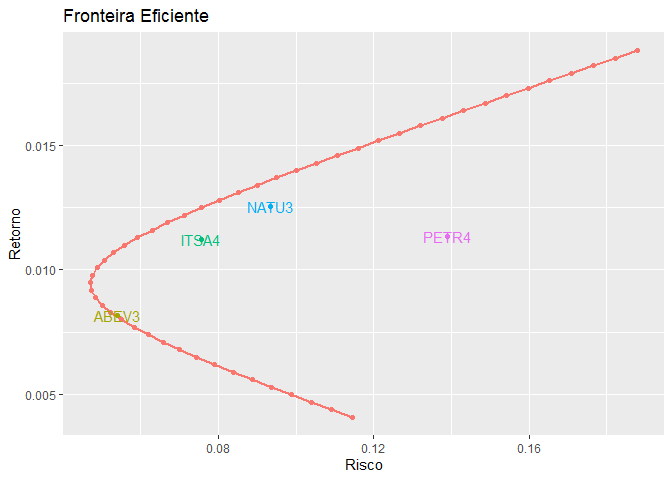
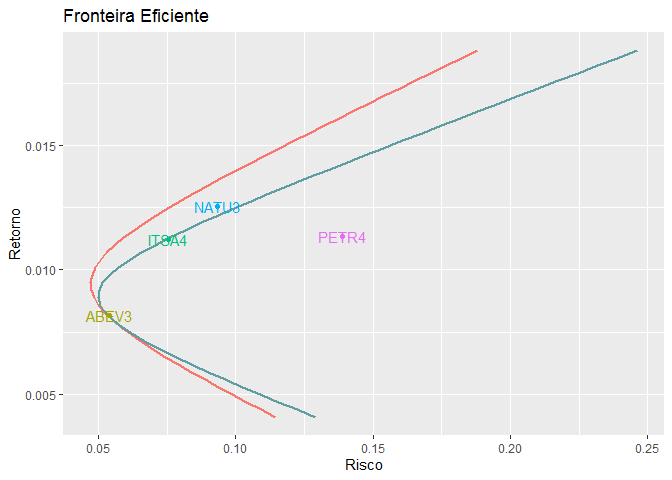
Adição de nova fronteira

diff --git a/post-blog.html b/post-blog.html
@@ -217,7 +217,7 @@ ativos &lt;- new.env()
 getSymbols(Symbols = simbolos, env = ativos, src = 'yahoo',
            from = startdate, to = enddate, auto.assign = TRUE)
 ativos &lt;- as.list(ativos)</code></pre>
-<p>Se tudo tiver corrido corretamente os dados das ações foram baixados em carregados no <em>environment</em> <code>ativos</code> que posteriormente foi transformando em uma lista. Usaremos lista frequentemente nesse exercício, elas simplicam bastante a transformação de dados ao permitir que uma operação seja realizada sobre todos os seu elementos usando a função <code>lappy()</code>.</p>
+<p>Se tudo tiver corrido corretamente os dados das ações foram baixados em carregados no <em>environment</em> <code>ativos</code> que posteriormente foi transformando em uma lista. Usaremos lista frequentemente nesse exercício, elas simplificam bastante a transformação de dados ao permitir que uma operação seja realizada sobre todos os seu elementos usando a função <code>lappy()</code>.</p>
 </div>
 <div id="processando-os-dados" class="section level3">
 <h3>Processando os dados</h3>
@@ -250,7 +250,7 @@ xts_to_data.frame &lt;- function(x){
   
   return(df)
 }</code></pre>
-<p>Na lista <code>ativos</code> estão os dados de transações de cada ativo na bolsa em objetos <code>xts</code>. Em cada objeto <code>xts</code> estão guardados informações como o menor preço alcançado pela ação no dia, o maior preço alcançado, o preço do ativo na abertura do pregão, o preço de fechamento e outras informações. Para nosso exercício usaremos, o preço de fechamento do ativos e partir deles calcularemos o retorno mensal, por isso percisamos da função <code>get_preco_fechamento()</code>.</p>
+<p>Na lista <code>ativos</code> estão os dados de transações de cada ativo na bolsa em objetos <code>xts</code>. Em cada objeto <code>xts</code> estão guardados informações como o menor preço alcançado pela ação no dia, o maior preço alcançado, o preço do ativo na abertura do pregão, o preço de fechamento e outras informações. Para nosso exercício usaremos, o preço de fechamento do ativos e partir deles calcularemos o retorno mensal, por isso precisamos da função <code>get_preco_fechamento()</code>.</p>
 <p>Já a função <code>list_to_xts()</code> recebe uma lista de objetos <code>xts</code> e a transforma em apenas um objeto <code>xts</code> e, por fim, a função <code>xts_to_data.frame</code> transforma um objeto <code>xts</code> em um <code>data.frame</code> mantendo o período dos dados como uma coluna do <code>data.frame</code> resultante. A seguir, vamos calcular os retornos mensais dos ativos:</p>
 <pre class="r"><code>#Obtendo apenas os preços de fechamento
 ativos &lt;- lapply(X = ativos, FUN = get_preco_fechamento)
@@ -305,7 +305,7 @@ plot_precos &lt;- function(data, periodo, filter = NULL){
       title = 'Evolução dos ativos'
     )
 }</code></pre>
-<p>Os dados dos ativos estão organizados de forma que cada coluna representa uma ativo diferente, diz-se que os dados estão num formato <code>wide</code>. Entretanto, o <code>ggplot2</code> foi construido para seguir uma lógica em os dados estão no formato <code>long</code>, também chamado de <code>tidy</code>. Nesse caso, os dados sobre os ativos são organizados em duas colunas: uma conterá o nome do ativo e outra o preço da ação correspondente respeitando o período da observação. A função <code>precos_tidy()</code> faz justamente essa transformação.</p>
+<p>Os dados dos ativos estão organizados de forma que cada coluna representa uma ativo diferente, diz-se que os dados estão num formato <code>wide</code>. Entretanto, o <code>ggplot2</code> foi construído para seguir uma lógica em os dados estão no formato <code>long</code>, também chamado de <code>tidy</code>. Nesse caso, os dados sobre os ativos são organizados em duas colunas: uma conterá o nome do ativo e outra o preço da ação correspondente respeitando o período da observação. A função <code>precos_tidy()</code> faz justamente essa transformação.</p>
 <p>A função <code>plot_precos()</code> toma o preços no formato <code>long</code> e cria um gráfico usando as funções do <code>ggplot2</code>. A seguir, plotamos a evolução dos preços de fechamento das ações e calcular as correlações entres o preços.</p>
 <pre class="r"><code>precos_ &lt;- precos_tidy(precos, 'periodo')
 
@@ -320,17 +320,20 @@ cor(m)</code></pre>
 ## NATU3 -0.3243479  1.0000000  0.7464562 0.2422055
 ## PETR4 -0.2361517  0.7464562  1.0000000 0.5854143
 ## ITSA4  0.4825303  0.2422055  0.5854143 1.0000000</code></pre>
-<p>Chama a atenção a alta correlação exitente entre preços das ações da Petrobras, <em>PETR4</em>, e da Natura <em>NATU3</em>. Correlação alcança o valor de 74,65%, isso é considerado relativamente alto. Isso é um pouco curioso, já que essas empresas são de setores diferentes. Tal relação fica mais clara no gráfico a seguir:</p>
+<p>Na tabela acima, cada célula representa a correlação entre os preços do ativo da linha com o ativo da coluna. Chama a atenção a alta correlação existente entre preços das ações da Petrobras, <em>PETR4</em>, e da Natura <em>NATU3</em>. Correlação alcança o valor de 74,65%, isso é considerado relativamente alto. Isso é um pouco curioso, já que essas empresas são de setores diferentes. Tal relação fica mais clara no gráfico a seguir:</p>
 <pre class="r"><code>plot_precos(precos_, 'periodo', filter = c('PETR4', 'NATU3'))</code></pre>
[1 lines of base64/hex data omitted]
-<p>Os dois ativos apresentam a tendência de queda entre 2013 e meados de 2016, após esse período passa a ter uma tendência ascendente. Talvez a mudaça de governo ocorrido em 2016 tenha sido um motivo relevante para esse comportamento.</p>
+<p>Os dois ativos apresentam a tendência de queda entre 2013 e meados de 2016, após esse período passa a ter uma tendência ascendente. Talvez a mudança de governo ocorrido em 2016 tenha sido um motivo relevante para esse comportamento. A apesar de tudo isso, a mesma relação não se mantem quando calculamos a correlação entre os retornos. Quando fazemos esse cálculo percebemos que a maior correlação ocorre entre <em>PETR4</em> e <em>ITSA4</em> como pode ser visto abaixo:</p>
+<pre class="r"><code># Correlação entre os retornos
+cor(carteira)</code></pre>
+<pre><code>##            ABEV3     NATU3      PETR4     ITSA4
+## ABEV3 1.00000000 0.1066042 0.06589754 0.3241655
+## NATU3 0.10660416 1.0000000 0.30124177 0.2985749
+## PETR4 0.06589754 0.3012418 1.00000000 0.6686894
+## ITSA4 0.32416546 0.2985749 0.66868936 1.0000000</code></pre>
 </div>
 <div id="calculando-fronteira-eficiente" class="section level3">
 <h3>Calculando fronteira eficiente</h3>
-<p><strong>TO DO</strong></p>
-<ul>
-<li>Fazer com que a função <code>carteira_otima()</code> receba uma lista como argumento</li>
-</ul>
 <p>O pacote <code>tseries</code> possui uma função chamada <code>portfolio.optim()</code>. Dado um conjunto de ativos e um retorno esperado para a carteira, ela calcula a carteira de menor variância. Vamos usar essa função para calcular a fronteira eficiente para o 5 ativos escolhidos.</p>
 <p>Para facilitar esse trabalho vamos criar algumas funções:</p>
 <pre class="r"><code>carteira_otima &lt;- function(ativos, retorno_desejado, shorts = FALSE){
@@ -389,7 +392,7 @@ retorno_max &lt;- 1.5*max(retornos_esperados)
 
 retornos_seq &lt;- seq(retorno_min, retorno_max, length.out = 50)</code></pre>
 <p>O menor retorno esperado tem a metade do retorno do ativo com menor retorno e o maior tem a metade a mais que do retorno esperado do ativo de maior rendimento. Assim, foram gerados 50 retornos desejados igualmente espaçados, a seguir calculamos as carteiras da fronteira.</p>
-<pre class="r"><code># Calculando carteiras eficientes
+<pre class="r"><code># Primeira com todos os ativos
 fronteira &lt;- lapply(
   X = retornos_seq,
   FUN = carteira_otima,
@@ -397,17 +400,28 @@ fronteira &lt;- lapply(
   shorts = TRUE
 )
 
-# Guardando dados de retorno e risco em um data.frame
+# Fronteira sem NATU3
+nomes_ativ &lt;- c(&quot;ABEV3&quot;, &quot;PETR4&quot;, &quot;ITSA4&quot;)
+fronteira2 &lt;- lapply(
+  X = retornos_seq,
+  FUN = carteira_otima,
+  ativos = carteira[, nomes_ativ],
+  shorts = TRUE
+)
+
+# Criando data frame
 dados_plot &lt;- data.frame(
   retorno = get_retorno(fronteira),
-  risco = get_risco(fronteira)
+  risco = get_risco(fronteira),
+  retorno2 = get_retorno(fronteira2),
+  risco2 = get_risco(fronteira2)
 )</code></pre>
 <p>O <code>data.frame</code> <code>dados_plot</code> contêm o dados de risco e retorno das carteiras ótimas. Com eles é possível plotar a fronteira eficiente, como poder ser visto no gráfico a seguir:</p>
 <pre class="r"><code># Plotando fronteira eficiente
 dados_plot %&gt;% 
   ggplot(aes(x = retorno, y = risco, color = '#E7B800'))+
-  geom_point()+
   geom_line(size = 1)+
+  geom_line(size = 1, aes(y = risco2), color = '#5F9EA0')+
   geom_point(data = ativos, aes(x = retorno, y = risco, color = acao))+
   geom_text(data = ativos, aes(x = retorno, y = risco, label = acao, color = acao))+
   coord_flip()+
@@ -418,8 +432,8 @@ dados_plot %&gt;%
     color = ''
   )+
   theme(legend.position = 'none')</code></pre>
[1 lines of base64/hex data omitted]
-<p>Além da fronteira foi plotado os cinco ativos escolhidos. Com esse gráfico é fácil constatar que podemos obter o mesmo retorno de <em>VVAR3</em>, que é o ativo de maior retorno, com um risco menor que esse ativos apenas fazendo uma combinação. Ou alternativamente, podemos obter um retorno maior <em>VVAR3</em> com mesmo nível de risco dele. Tais resultados só são possíveis devido aos efeitos da diversificação.</p>
[1 lines of base64/hex data omitted]
+<p>A fronteira na mais escura foi construída a partir dos ativos <em>ABEV3</em>, <em>PETR4</em> e <em>ITSA4</em>, já a fronteira laranja foi construída com os mesmo ativos mais a ativo <em>NATU3</em>. A Nova fronteira ficou mais à esquerda que a anterior, portanto, é possível obter o mesmo retorno com uma risco menor por meio dessa nova nova fronteira eficiente. Tais resultados só são possíveis devido aos efeitos da diversificação: ao aumentar a quantidade de ativos na carteira o risco cai mais que os retornos ponderados.</p>
 </div>
 </div>
 

diff --git a/post-blog.md b/post-blog.md
@@ -55,7 +55,7 @@ getSymbols(Symbols = simbolos, env = ativos, src = 'yahoo',
 ativos <- as.list(ativos)
 ```
 
-Se tudo tiver corrido corretamente os dados das ações foram baixados em carregados no *environment* `ativos` que posteriormente foi transformando em uma lista. Usaremos lista frequentemente nesse exercício, elas simplicam bastante a transformação de dados ao permitir que uma operação seja realizada sobre todos os seu elementos usando a função `lappy()`. 
+Se tudo tiver corrido corretamente os dados das ações foram baixados em carregados no *environment* `ativos` que posteriormente foi transformando em uma lista. Usaremos lista frequentemente nesse exercício, elas simplificam bastante a transformação de dados ao permitir que uma operação seja realizada sobre todos os seu elementos usando a função `lappy()`. 
 
 ### Processando os dados
 
@@ -93,7 +93,7 @@ xts_to_data.frame <- function(x){
 }
 ```
 
-Na lista `ativos` estão os dados de transações de cada ativo na bolsa em objetos `xts`. Em cada objeto `xts` estão guardados informações como o menor preço alcançado pela ação no dia, o maior preço alcançado, o preço do ativo na abertura do pregão, o preço de fechamento e outras informações. Para nosso exercício usaremos, o preço de fechamento do ativos e partir deles calcularemos o retorno mensal, por isso percisamos da função `get_preco_fechamento()`.
+Na lista `ativos` estão os dados de transações de cada ativo na bolsa em objetos `xts`. Em cada objeto `xts` estão guardados informações como o menor preço alcançado pela ação no dia, o maior preço alcançado, o preço do ativo na abertura do pregão, o preço de fechamento e outras informações. Para nosso exercício usaremos, o preço de fechamento do ativos e partir deles calcularemos o retorno mensal, por isso precisamos da função `get_preco_fechamento()`.
 
 Já a função `list_to_xts()` recebe uma lista de objetos `xts` e a transforma em apenas um objeto `xts` e, por fim, a função `xts_to_data.frame` transforma um objeto `xts` em um `data.frame` mantendo o período dos dados como uma coluna do `data.frame` resultante. A seguir, vamos calcular os retornos mensais dos ativos:
 
@@ -160,7 +160,7 @@ plot_precos <- function(data, periodo, filter = NULL){
 }
 ```
 
-Os dados dos ativos estão organizados de forma que cada coluna representa uma ativo diferente, diz-se que os dados estão num formato `wide`. Entretanto, o `ggplot2` foi construido para seguir uma lógica em os dados estão no formato `long`, também chamado de `tidy`. Nesse caso, os dados sobre os ativos são organizados em duas colunas: uma conterá o nome do ativo e outra o preço da ação correspondente respeitando o período da observação. A função `precos_tidy()` faz justamente essa transformação.
+Os dados dos ativos estão organizados de forma que cada coluna representa uma ativo diferente, diz-se que os dados estão num formato `wide`. Entretanto, o `ggplot2` foi construído para seguir uma lógica em os dados estão no formato `long`, também chamado de `tidy`. Nesse caso, os dados sobre os ativos são organizados em duas colunas: uma conterá o nome do ativo e outra o preço da ação correspondente respeitando o período da observação. A função `precos_tidy()` faz justamente essa transformação.
 
 A função `plot_precos()` toma o preços no formato `long` e cria um gráfico usando as funções do `ggplot2`. A seguir, plotamos a evolução dos preços de fechamento das ações e calcular as correlações entres o preços.
 
@@ -188,7 +188,7 @@ cor(m)
 ## ITSA4  0.4825303  0.2422055  0.5854143 1.0000000
 ```
 
-Chama a atenção a alta correlação exitente entre preços das ações da Petrobras, *PETR4*, e  da Natura *NATU3*. Correlação alcança o valor de 74,65%, isso é considerado relativamente alto. Isso é um pouco curioso, já que essas empresas são de setores diferentes. Tal relação fica mais clara no gráfico a seguir:
+Na tabela acima, cada célula representa a correlação entre os preços do ativo da linha com o ativo da coluna. Chama a atenção a alta correlação existente entre preços das ações da Petrobras, *PETR4*, e  da Natura *NATU3*. Correlação alcança o valor de 74,65%, isso é considerado relativamente alto. Isso é um pouco curioso, já que essas empresas são de setores diferentes. Tal relação fica mais clara no gráfico a seguir:
 
 
 ```r
@@ -197,14 +197,24 @@ plot_precos(precos_, 'periodo', filter = c('PETR4', 'NATU3'))
 
 <img src="post-blog_files/figure-html/grafico_petr4_natu3-1.png" style="display: block; margin: auto;" />
 
-Os dois ativos apresentam a tendência de queda entre 2013 e meados de 2016, após esse período passa a ter uma tendência ascendente. Talvez a mudaça de governo ocorrido em 2016 tenha sido um motivo relevante para esse comportamento.
+Os dois ativos apresentam a tendência de queda entre 2013 e meados de 2016, após esse período passa a ter uma tendência ascendente. Talvez a mudança de governo ocorrido em 2016 tenha sido um motivo relevante para esse comportamento. A apesar de tudo isso, a mesma relação não se mantem quando calculamos a correlação entre os retornos. Quando fazemos esse cálculo percebemos que a maior correlação ocorre entre *PETR4* e *ITSA4* como pode ser visto abaixo:
+
+
+```r
+# Correlação entre os retornos
+cor(carteira)
+```
+
+```
+##            ABEV3     NATU3      PETR4     ITSA4
+## ABEV3 1.00000000 0.1066042 0.06589754 0.3241655
+## NATU3 0.10660416 1.0000000 0.30124177 0.2985749
+## PETR4 0.06589754 0.3012418 1.00000000 0.6686894
+## ITSA4 0.32416546 0.2985749 0.66868936 1.0000000
+```
 
 
 ### Calculando fronteira eficiente
-
-**TO DO**
-
-* Fazer com que a função `carteira_otima()` receba uma lista como argumento
 
 O pacote `tseries` possui uma função chamada `portfolio.optim()`. Dado um conjunto de ativos e um retorno esperado para a carteira, ela calcula a carteira de menor variância. Vamos usar essa função para calcular a fronteira eficiente para o 5 ativos escolhidos.
 
@@ -288,7 +298,7 @@ O menor retorno esperado tem a metade do retorno do ativo com menor retorno e o 
 
 
 ```r
-# Calculando carteiras eficientes
+# Primeira com todos os ativos
 fronteira <- lapply(
   X = retornos_seq,
   FUN = carteira_otima,
@@ -296,10 +306,21 @@ fronteira <- lapply(
   shorts = TRUE
 )
 
-# Guardando dados de retorno e risco em um data.frame
+# Fronteira sem NATU3
+nomes_ativ <- c("ABEV3", "PETR4", "ITSA4")
+fronteira2 <- lapply(
+  X = retornos_seq,
+  FUN = carteira_otima,
+  ativos = carteira[, nomes_ativ],
+  shorts = TRUE
+)
+
+# Criando data frame
 dados_plot <- data.frame(
   retorno = get_retorno(fronteira),
-  risco = get_risco(fronteira)
+  risco = get_risco(fronteira),
+  retorno2 = get_retorno(fronteira2),
+  risco2 = get_risco(fronteira2)
 )
 ```
 
@@ -310,8 +331,8 @@ O `data.frame` `dados_plot` contêm o dados de risco e retorno das carteiras ót
 # Plotando fronteira eficiente
 dados_plot %>% 
   ggplot(aes(x = retorno, y = risco, color = '#E7B800'))+
-  geom_point()+
   geom_line(size = 1)+
+  geom_line(size = 1, aes(y = risco2), color = '#5F9EA0')+
   geom_point(data = ativos, aes(x = retorno, y = risco, color = acao))+
   geom_text(data = ativos, aes(x = retorno, y = risco, label = acao, color = acao))+
   coord_flip()+
@@ -326,5 +347,5 @@ dados_plot %>%
 
 <img src="post-blog_files/figure-html/fronteira_plot-1.png" style="display: block; margin: auto;" />
 
-Além da fronteira foi plotado os cinco ativos escolhidos. Com esse gráfico é fácil constatar que podemos obter o mesmo retorno de *VVAR3*, que é o ativo de maior retorno, com um risco menor que esse ativos apenas fazendo uma combinação. Ou alternativamente, podemos obter um retorno maior *VVAR3* com mesmo nível de risco dele. Tais resultados só são possíveis devido aos efeitos da diversificação.
+A fronteira na mais escura foi construída a partir dos ativos *ABEV3*, *PETR4* e *ITSA4*, já a fronteira laranja foi construída com os mesmo ativos mais a ativo *NATU3*. A Nova fronteira ficou mais à esquerda que a anterior, portanto, é possível obter o mesmo retorno com uma risco menor por meio dessa nova nova fronteira eficiente. Tais resultados só são possíveis devido aos efeitos da diversificação: ao aumentar a quantidade de ativos na carteira o risco cai mais que os retornos ponderados.
 
